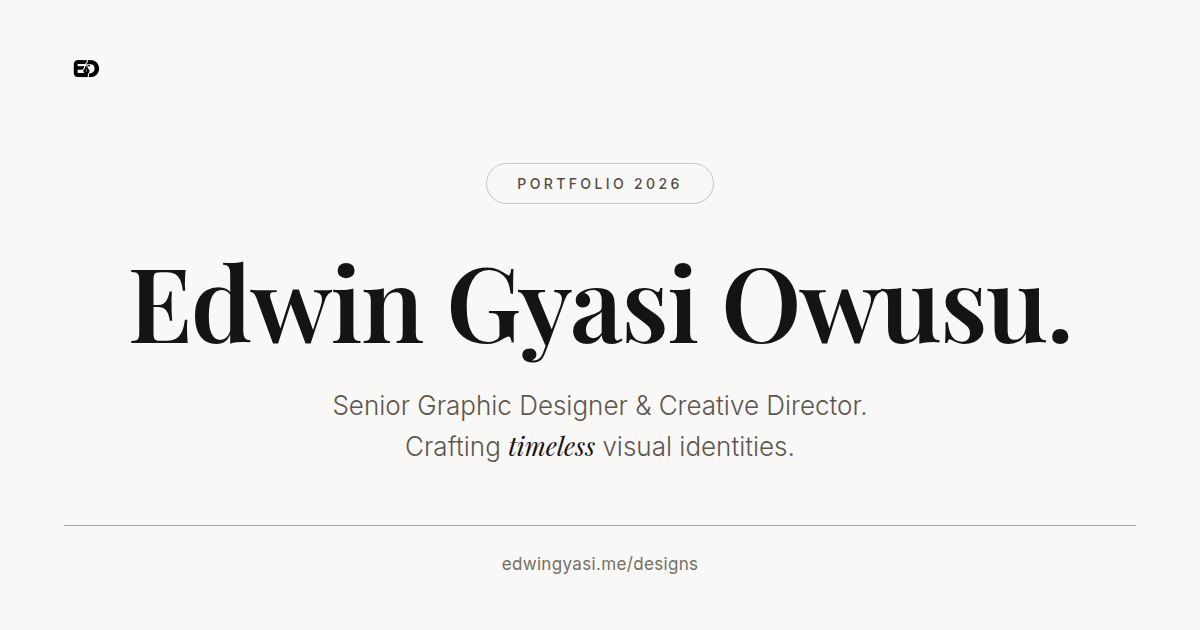
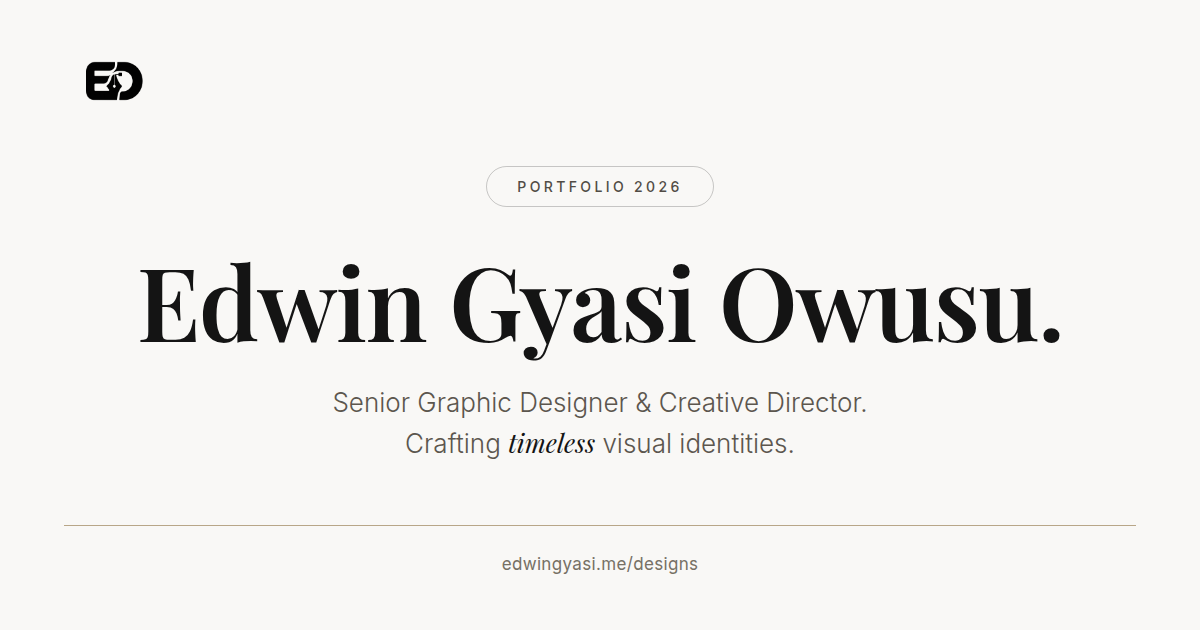
Put both share cards on the sites' own palettes
The engineering card was near-black, which looked fine alone and nothing
like the light page it links to. It is on --bg #FAFAF8 now with the ink,
emerald and gold from index.html, the cube mark top left, and the emerald
pin the site uses on every section eyebrow.

The Eon mark on the designs card was too small to read at the size these
previews are shown, 34px on a 630px canvas. It is 76px now, matching the
weight the cube has on the other card.

Claude-Session: https://claude.ai/code/session_013fxUdJRsSZsgvhebHsmS6e

diff --git a/CLAUDE.md b/CLAUDE.md
@@ -395,8 +395,14 @@ Outside the repo, and only the owner can do these:
   the owner is applying for.
 
   Rendered by screenshotting a 1200x630 HTML page in headless Chromium, served
-  over **http://** from the repo root so the self-hosted `@font-face` resolves.
-  A `file://` page does not load the font and silently falls back.
+  over **http://** from the repo root so the self-hosted `@font-face` and the
+  logo artwork resolve. A `file://` page loads neither and silently falls back.
+
+  Both cards are on the **site's own palette**, not a card palette: the
+  engineering one on `--bg` #FAFAF8 with an emerald eyebrow, a gold rule and
+  the cube mark, the designs one on the Eon cream. A first pass drew the
+  engineering card near-black, which looked well enough on its own and nothing
+  like the page it links to.
 
   **A share card carrying the domain as artwork is a hidden domain dependency.**
   `buildDomainFiles()` cannot reach pixels. If the site moves again, this file
